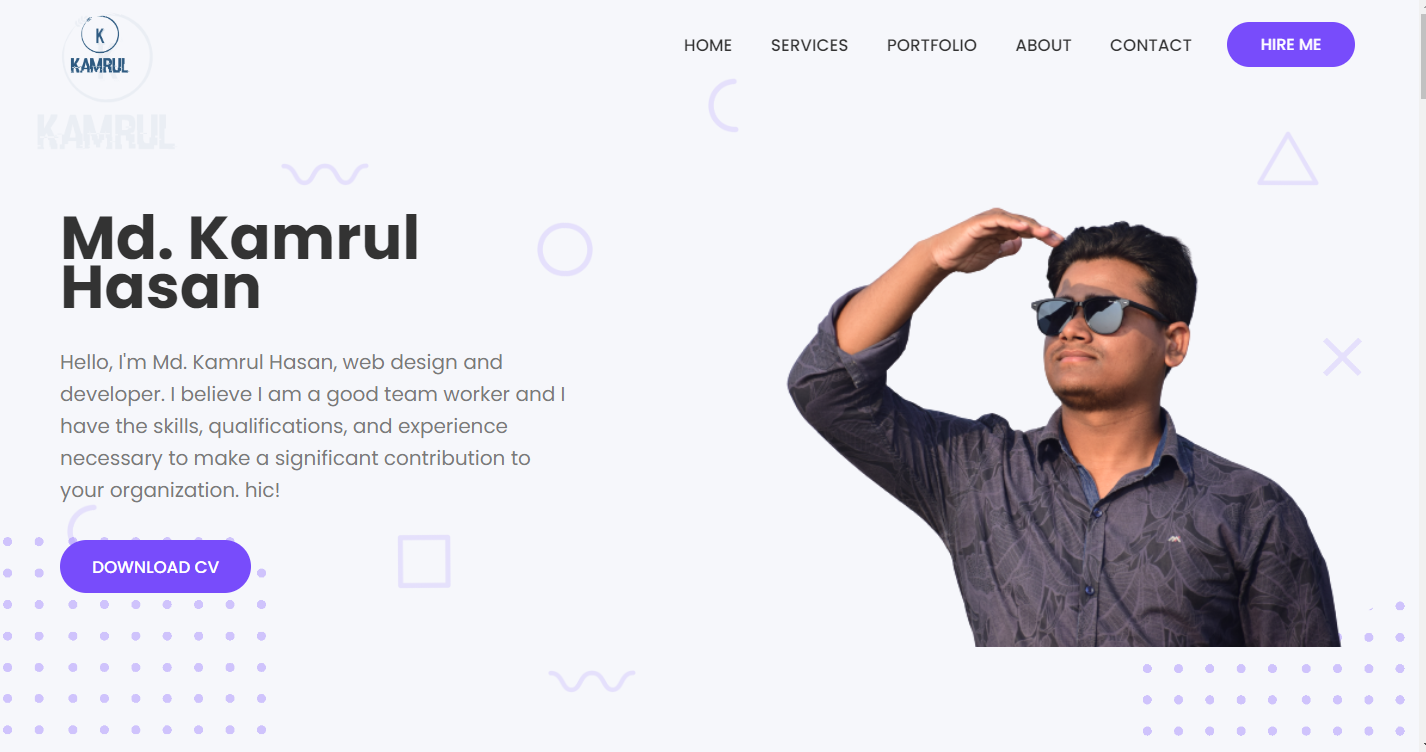
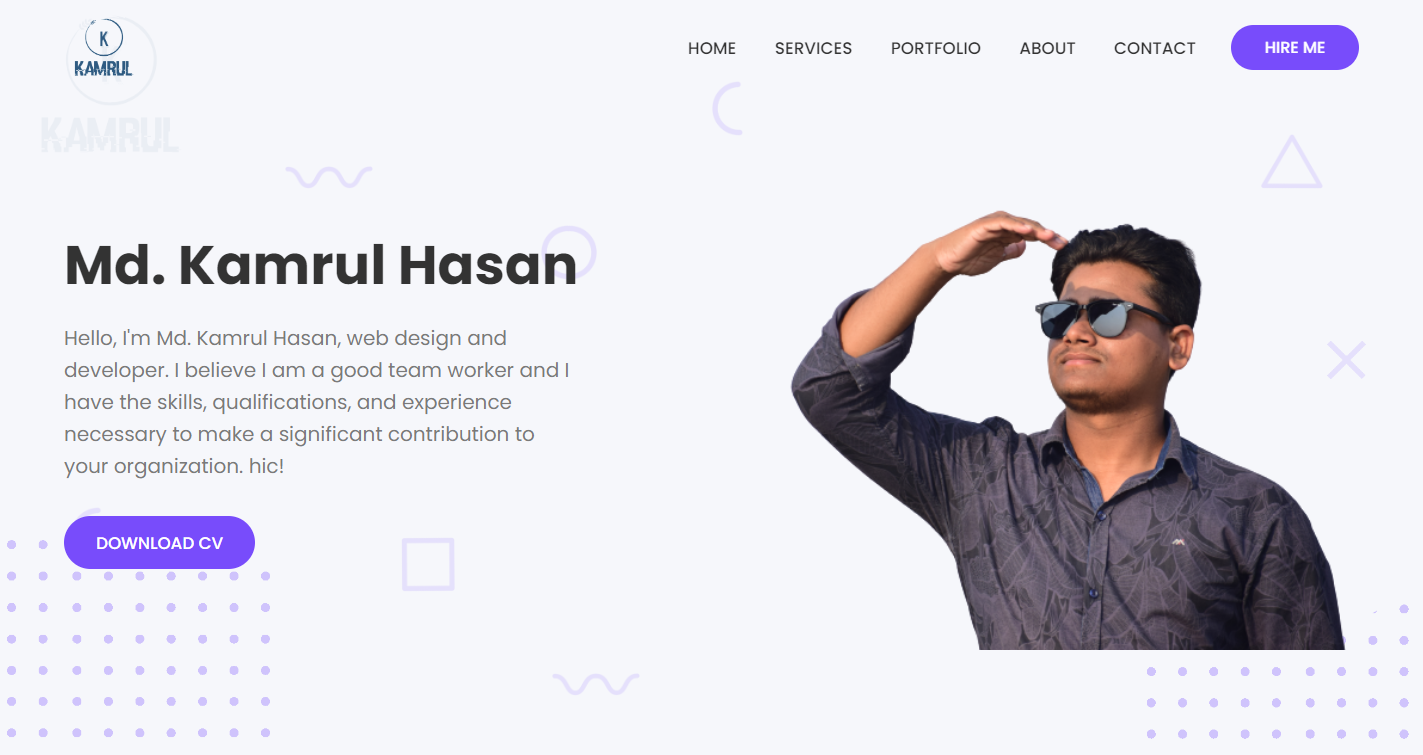
a

diff --git a/index.html b/index.html
@@ -3,7 +3,7 @@
   <head>
     <meta charset="UTF-8" />
     <meta name="viewport" content="width=device-width, initial-scale=1.0" />
-    <title>Portfolio Website</title>
+    <title>Md. Kamrul Hasan</title>
     <link
       rel="stylesheet"
       href="https://cdnjs.cloudflare.com/ajax/libs/font-awesome/5.15.1/css/all.min.css"
@@ -120,8 +120,9 @@
                   <img src="./img/design-icon.png" class="icon" alt="" />
                   <h3 class="title-sm">Web Design and Development</h3>
                   <p class="text">
-                    I know web development. I know HTML, CSS, JavaScript, PHP and Bootstrap. I know vuejs and reackjs framwork of front end.
-                    For back end I am learning Asp.Net framework. 
+                    I know web development. I know HTML, CSS, JavaScript, PHP and Bootstrap.
+                     I know vuejs and reactjs framwork of front end.
+                    I am also learning full stack web development usnig Asp.net . 
                   </p>
                   <a href="#" class="btn small">Read more</a>
                 </div>
@@ -212,7 +213,7 @@
                     <div class="plus"></div>
                     <div class="img-description">
                       <h3>Web Design</h3>
-                      <h5><a class="demo" href="https://kamrul15-8841.github.io/AnalogueClock/"> View Demo</a></h5>
+                      <h5><a class="demo" href="https://github.com/kamrul15-8841/LearnWeb/tree/main/Youtube"> View Demo</a></h5>
                     </div>
                   </div>
                 </div>
@@ -239,6 +240,18 @@
                     <div class="img-description">
                       <h3>Web Design</h3>
                       <h5><a class="demo" href="https://github.com/kamrul15-8841/MonthCalender"> View Demo</a></h5>
+                    </div>
+                  </div>
+                </div>
+              </div>
+              <div class="grid-item ui webdev">
+                <div class="gallery-image">
+                  <img src="./img/portfolio/port9.png" alt="" />
+                  <div class="img-overlay">
+                    <div class="plus"></div>
+                    <div class="img-description">
+                      <h3>Web Design</h3>
+                      <h5><a class="demo" href="https://kamrul15-8841.github.io/AnalogueClock/"> View Demo</a></h5>
                     </div>
                   </div>
                 </div>

diff --git a/css/style.css b/css/style.css
@@ -350,7 +350,7 @@ nav.open .links {
 }
 
 .header-title {
-  font-size: 3.8rem;
+  font-size: 3.4rem;
   line-height: 0.8;
   color: var(--dark-one);
 }

diff --git a/README.md b/README.md
@@ -1,2 +1,6 @@
 # Portfolio_using_HTML_CSS
  Portfolio website design using HTML CSS Javascript 
+![](Screenshot/home.PNG)
+![](Screenshot/about.PNG)
+![](Screenshot/portfolio.PNG)
+![](Screenshot/contact.PNG)
